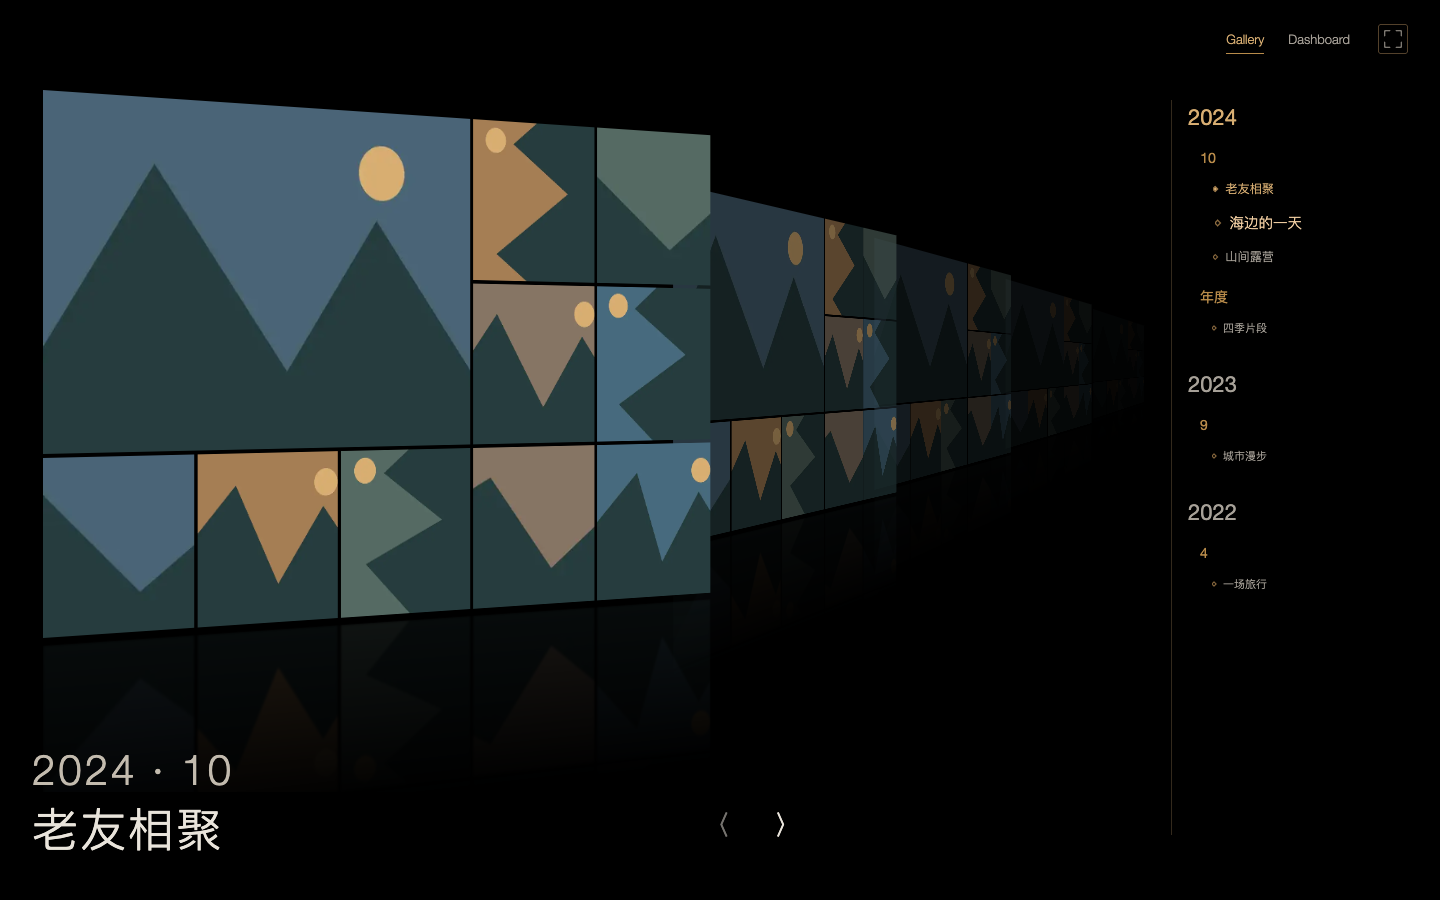
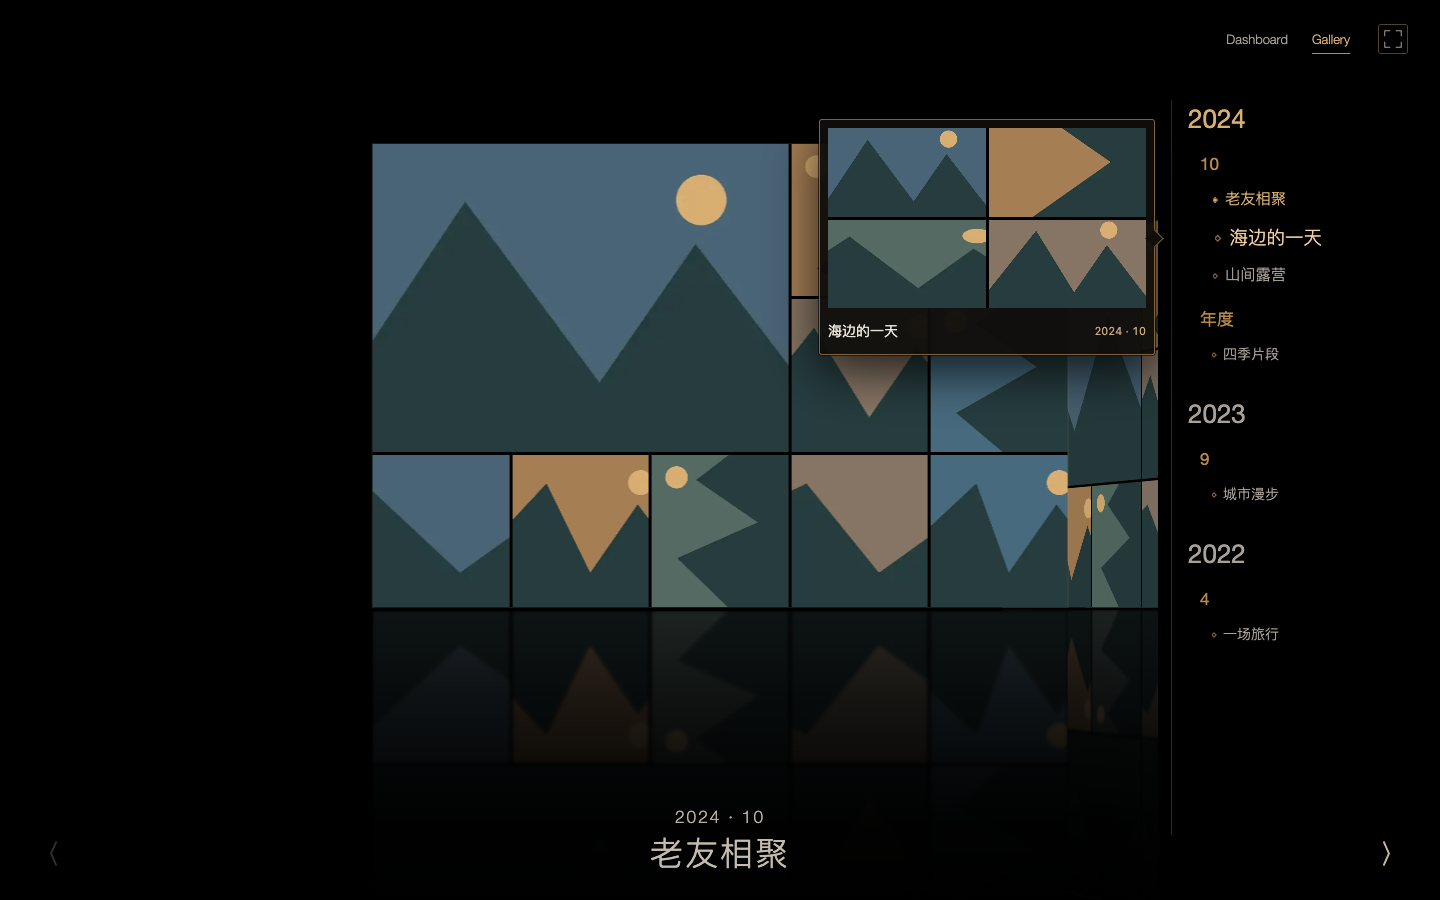
Add score-ranked timeline photo previews and readable labels

diff --git a/web/src/timeline.jsx b/web/src/timeline.jsx
@@ -1,7 +1,31 @@
-import React, { useEffect, useRef } from "react";
+import React, { useEffect, useRef, useState } from "react";
+
+import {createPortal} from "react-dom";
+import {TimelinePreview} from "./timeline-preview";
 
 export function ActivityTimeline({ activities, index, onSelect }) {
   const root = useRef(null), frame = useRef(0), pointer = useRef(null);
+  const [preview,setPreview]=useState(null);
+  const showTimer=useRef(null),closeTimer=useRef(null),removeTimer=useRef(null);
+  const closePreview=()=>{
+    clearTimeout(showTimer.current);clearTimeout(closeTimer.current);clearTimeout(removeTimer.current);
+    setPreview(p=>p ? {...p,closing:true} : null);
+    removeTimer.current=setTimeout(()=>setPreview(null),matchMedia('(prefers-reduced-motion:reduce)').matches ? 0 : 160);
+  };
+  const leavePreview=()=>{
+    clearTimeout(showTimer.current);clearTimeout(closeTimer.current);
+    closeTimer.current=setTimeout(closePreview,70);
+  };
+  const showPreview=(activity,element)=>{
+    clearTimeout(showTimer.current);clearTimeout(closeTimer.current);clearTimeout(removeTimer.current);
+    const switching=preview && preview.activity.id!==activity.id;
+    if(switching)setPreview(p=>p ? {...p,closing:true} : null);
+    showTimer.current=setTimeout(()=>{
+      if(!element.isConnected)return;
+      const r=element.getBoundingClientRect(),rail=root.current.getBoundingClientRect();
+      setPreview({activity,anchor:{x:r.x,y:r.y,width:r.width,height:r.height,railLeft:rail.left},closing:false});
+    },switching ? 160 : 110);
+  };
   const groups = [];
   activities.forEach((activity, i) => {
     const year = activity.event.year || "未知年份";
@@ -17,7 +41,13 @@ export function ActivityTimeline({ activities, index, onSelect }) {
     cancelAnimationFrame(frame.current); frame.current = 0;
     root.current?.querySelectorAll("[data-dock]").forEach((el) => el.style.removeProperty("--dock"));
   };
-  useEffect(() => () => cancelAnimationFrame(frame.current), []);
+  useEffect(()=>()=>{cancelAnimationFrame(frame.current);clearTimeout(showTimer.current);clearTimeout(closeTimer.current);clearTimeout(removeTimer.current);},[]);
+  useEffect(()=>{
+    const dismiss=e=>{if(e.key==='Escape')closePreview();};
+    const resize=()=>closePreview();
+    window.addEventListener('keydown',dismiss);window.addEventListener('resize',resize);
+    return ()=>{window.removeEventListener('keydown',dismiss);window.removeEventListener('resize',resize);};
+  },[]);
   const magnify = (e) => {
     if (e.pointerType === "touch" || !matchMedia("(hover: hover)").matches) return;
     pointer.current = e.clientY;
@@ -35,19 +65,22 @@ export function ActivityTimeline({ activities, index, onSelect }) {
       });
     });
   };
-  return <aside ref={root} className="activity-timeline dock-timeline" aria-label="活动时间线"
-    onPointerMove={magnify} onPointerLeave={reset} onScroll={reset}>
+  return <><aside ref={root} className="activity-timeline dock-timeline" aria-label="活动时间线"
+    onPointerMove={magnify} onPointerLeave={()=>{reset();leavePreview();}} onScroll={()=>{reset();closePreview();}}>
     {groups.map((year) => <section className="timeline-year-group" key={year.year} aria-label={String(year.year)}>
       <h2 data-dock className={"timeline-year " + (activities[index]?.event.year === year.year ? "selected" : "")}><span className="dock-label">{year.year}</span></h2>
       {year.months.map((month) => <section className="timeline-month-group" key={month.month} aria-label={month.month === "年度" ? "年度" : `${month.month}月`}>
         <h3 data-dock className="timeline-month"><span className="dock-label">{month.month}</span></h3>
         <ul>{month.items.map(({activity, i}) => <li data-dock key={activity.id}>
           <button aria-current={i === index ? "true" : undefined} className={i === index ? "selected" : ""}
-            title={activity.event.theme} onClick={() => onSelect(i)}>
+            aria-describedby={preview?.activity.id===activity.id && !preview.closing ? 'timeline-photo-preview' : undefined}
+            onPointerEnter={e=>{if(e.pointerType!=='touch')showPreview(activity,e.currentTarget);}}
+            onPointerLeave={leavePreview} onFocus={e=>showPreview(activity,e.currentTarget)} onBlur={leavePreview}
+            onClick={()=>{closePreview();onSelect(i);}}>
             <span className="dock-label"><span className="timeline-dot"/>{activity.event.theme}</span>
           </button>
         </li>)}</ul>
       </section>)}
     </section>)}
-  </aside>;
+  </aside>{preview && createPortal(<TimelinePreview key={preview.activity.id} activity={preview.activity} anchor={preview.anchor} closing={preview.closing}/>,document.body)}</>;
 }

diff --git a/web/src/gallery.css b/web/src/gallery.css
@@ -880,3 +880,36 @@
  .gallery-view-tunnel .gallery-caption {bottom:22px;max-width:calc(100vw - 140px);}
  .tunnel-controls {inset:auto 14px 22px;}
 }
+
+/* Readable timeline labels and a small photograph drawer outside its scroll clipping. */
+.dock-timeline .timeline-year {font-size:26px;line-height:38px;}
+.dock-timeline .timeline-month {font-size:17px;line-height:32px;}
+.dock-timeline button {font-size:14px;line-height:22px;padding:8px 0;}
+.timeline-preview {--preview-enter-x:16px;--preview-enter-y:0px;position:fixed;z-index:60;box-sizing:border-box;padding:8px;display:grid;grid-template-rows:180px minmax(0,1fr);gap:8px;background:#100e0bf5;border:1px solid #80623d;border-radius:3px;box-shadow:0 16px 48px #000b,0 0 0 1px #0009;backdrop-filter:blur(12px);-webkit-backdrop-filter:blur(12px);pointer-events:none;color:#e9e4db;transform-origin:100% var(--preview-arrow);animation:timeline-preview-in 220ms cubic-bezier(.16,1,.3,1) both;}
+.timeline-preview::after {content:"";position:absolute;right:-7px;top:calc(var(--preview-arrow) - 6px);width:12px;height:12px;background:#100e0b;border-top:1px solid #80623d;border-right:1px solid #80623d;transform:rotate(45deg);}
+.timeline-preview.from-above {--preview-enter-x:0px;--preview-enter-y:12px;transform-origin:var(--preview-arrow) 100%;}
+.timeline-preview.from-above::after {right:auto;left:calc(var(--preview-arrow) - 6px);top:auto;bottom:-7px;border-top:0;border-bottom:1px solid #80623d;}
+.timeline-preview.closing {animation:timeline-preview-out 150ms ease-in both;}
+.timeline-preview-mosaic {min-height:0;position:relative;display:grid;grid-template-columns:3fr 2fr;grid-template-rows:1fr 1fr;gap:3px;background:#000;overflow:hidden;}
+.timeline-preview-cell {min-width:0;min-height:0;overflow:hidden;background:#1c1914;}
+.timeline-preview-cell img {display:block;width:100%;height:100%;object-fit:cover;}
+.timeline-preview-mosaic.layout-3 .preview-cell-0,.timeline-preview-mosaic.layout-5 .preview-cell-0 {grid-row:1/3;}
+.timeline-preview-mosaic.layout-4 {grid-template-columns:1fr 1fr;}
+.timeline-preview-mosaic.layout-5 {grid-template-columns:11fr 4.5fr 4.5fr;}
+.timeline-preview-mosaic.layout-1 {grid-template-columns:1fr;grid-template-rows:1fr;}
+.timeline-preview-mosaic.layout-2 {grid-template-columns:1fr 1fr;grid-template-rows:1fr;}
+.timeline-preview-empty {position:absolute;inset:0;display:grid;place-items:center;color:#b9a88c;font-size:13px;}
+.preview-loading {display:block;height:100%;background:linear-gradient(135deg,#15130f,#262017);}
+.preview-unavailable {display:grid;place-items:center;height:100%;font-size:11px;color:#b9a88c;}
+.timeline-preview-label {display:flex;align-items:center;justify-content:space-between;gap:12px;min-width:0;font:14px/20px system-ui;}
+.timeline-preview-label>span {min-width:0;overflow:hidden;text-overflow:ellipsis;white-space:nowrap;}
+.timeline-preview-label small {flex:none;color:#c8aa7d;font-size:11px;font-variant-numeric:tabular-nums;}
+@keyframes timeline-preview-in {from {opacity:0;transform:translate(var(--preview-enter-x),var(--preview-enter-y)) scale(.94);filter:blur(2px);}to {opacity:1;transform:translateX(0) scale(1);filter:blur(0);}}
+@keyframes timeline-preview-out {from {opacity:1;transform:translateX(0) scale(1);}to {opacity:0;transform:translate(calc(var(--preview-enter-x) * .75),calc(var(--preview-enter-y) * .75)) scale(.96);}}
+@media(max-width:700px){
+ .dock-timeline .timeline-year {font-size:20px;line-height:28px;}
+ .dock-timeline .timeline-month {font-size:15px;line-height:26px;}
+ .dock-timeline button {font-size:13px;line-height:22px;padding:3px 0;min-width:164px;width:164px;}
+ .dock-timeline .timeline-month-group {min-width:164px;}
+}
+@media(prefers-reduced-motion:reduce){.timeline-preview,.timeline-preview.closing {animation:none;}}

diff --git a/web/src/timeline-preview.jsx b/web/src/timeline-preview.jsx
@@ -1,0 +1,44 @@
+import React, {useEffect,useState} from 'react';
+import {planTimelineCollage} from './timeline-collage';
+
+export function TimelinePreview({activity,anchor,closing}) {
+  const width=Math.min(336,innerWidth-24), height=236;
+  const plan=planTimelineCollage(activity.selected,(width-18)/180);
+  const [sources,setSources]=useState({});
+  const [failed,setFailed]=useState({});
+  const key=plan.photos.map(p=>p.id+'|'+p.thumbnail).join(',');
+  useEffect(()=>{
+    const controller=new AbortController(),urls=[];
+    setSources({});setFailed({});
+    plan.photos.forEach(async p=>{
+      try {
+        const response=await fetch(p.thumbnail,{signal:controller.signal});
+        if(!response.ok)throw new Error('preview');
+        const blob=await response.blob();if(controller.signal.aborted)return;
+        const url=URL.createObjectURL(blob);urls.push(url);
+        setSources(s=>({...s,[p.id]:url}));
+      }catch{if(!controller.signal.aborted)setFailed(s=>({...s,[p.id]:true}));}
+    });
+    return ()=>{controller.abort();urls.forEach(url=>URL.revokeObjectURL(url));};
+  },[key]);
+  const clamp=(value,min,max)=>Math.max(min,Math.min(Math.max(min,max),value));
+  const leftward=anchor.railLeft>=width+28;
+  const left=leftward ? anchor.railLeft-width-16 : clamp(anchor.x+anchor.width/2-width/2,12,innerWidth-width-12);
+  const top=leftward ? clamp(anchor.y+anchor.height/2-height/2,78,innerHeight-height-72)
+    : clamp(anchor.y-height-16,78,innerHeight-height-72);
+  const arrow=leftward ? clamp(anchor.y+anchor.height/2-top,18,height-18)
+    : clamp(anchor.x+anchor.width/2-left,18,width-18);
+  return <div id="timeline-photo-preview" role="tooltip" aria-label={`${activity.event.theme} · 评分前${plan.count}张照片`}
+    data-activity={activity.id} data-photo-count={plan.count}
+    className={`timeline-preview ${leftward ? 'from-left' : 'from-above'} ${closing ? 'closing' : ''}`}
+    style={{left,top,width,height,'--preview-arrow':`${arrow}px`}}>
+    <div className={`timeline-preview-mosaic layout-${plan.count}`} aria-busy={plan.photos.some(p=>!sources[p.id]&&!failed[p.id])}>
+      {plan.photos.map((p,i)=><div className={`timeline-preview-cell preview-cell-${i}`} key={p.id} data-score={p.score}>
+        {sources[p.id] && !failed[p.id] ? <img src={sources[p.id]} alt="" decoding="async" onError={()=>setFailed(s=>({...s,[p.id]:true}))}/> :
+          <span className={failed[p.id] ? 'preview-unavailable' : 'preview-loading'}>{failed[p.id] ? '暂不可用' : ''}</span>}
+      </div>)}
+      {!plan.count && <span className="timeline-preview-empty">{activity.unscored ? '评分中' : '暂无精选照片'}</span>}
+    </div>
+    <div className="timeline-preview-label"><span>{activity.event.theme}</span><small>{activity.event.year}{activity.event.month ? ` · ${String(activity.event.month).padStart(2,'0')}` : ''}</small></div>
+  </div>;
+}

diff --git a/web/src/timeline-collage.js b/web/src/timeline-collage.js
@@ -1,0 +1,21 @@
+// Keep score order; vary only the number of leading photos to limit crop loss.
+export function planTimelineCollage(selected, aspect = 318 / 180) {
+  const ranked = selected.filter(p => p.kind === 'image_candidate' && p.thumbnail &&
+    !p.info?.placeholder && typeof p.score === 'number' && Number.isFinite(p.score))
+    .sort((a,b) => b.score-a.score).slice(0,5);
+  if (ranked.length < 3) return {photos:ranked, count:ranked.length};
+  const slots = {
+    3:[aspect*.6,aspect*.8,aspect*.8],
+    4:Array(4).fill(aspect),
+    5:[aspect*.55,...Array(4).fill(aspect*.45)],
+  };
+  let count=3, best=Infinity;
+  for(let n=3;n<=ranked.length;n++) {
+    const loss=ranked.slice(0,n).reduce((sum,p,i)=>{
+      const ratio=p.info?.width>0 && p.info?.height>0 ? p.info.width/p.info.height : 1.5;
+      return sum + 1-Math.min(ratio/slots[n][i],slots[n][i]/ratio);
+    },0)/n + (5-n)*.02;
+    if(loss<best){best=loss;count=n;}
+  }
+  return {photos:ranked.slice(0,count),count};
+}

diff --git a/docs/research/timeline-preview-validation.md b/docs/research/timeline-preview-validation.md
@@ -1,0 +1,24 @@
+# Timeline 照片气泡与字号验收
+
+2026-10-25。Gallery时间线活动项停留110ms后弹出照片预览；切换活动时旧气泡150ms收起，新气泡160ms后进入，220ms缓动展开。鼠标离开后70ms开始收起，滚动、Esc、点击选择活动及窗口缩放关闭预览。
+
+## 选片与展示
+
+- 复用`/api/gallery`已有严格评分Top10：只取有效评分的成片，降序排列后从前3、4、5张中选择平均裁切损失较低的拼贴。不会为了拼贴跳过高分照片。仅1–2张时展示真实数量，未评分显示状态，不补造照片。
+- 三图是左大右双图，四图为2×2，五图为左主图＋右四图。桌面气泡统一336×236px，照片区318×180px。黑色毛玻璃、黄褐细边、右侧尖角与Cover Flow一致；保留主题和年月标签，移除重复的浏览器原生title提示。
+- 通过Portal挂到body，避免timeline滚动裁切；始终对齐稳定按钮命中区，而非Dock放大后的文字。上下边缘自动避让，窄屏空间不足时改在时间线上方，宽度最多视口减24px。
+- 只加载本地640px缩略图，不取4K或NAS原图；仅气泡出现后发请求。切换/关闭取消未完成请求、撤销Blob URL。失败项显示简短状态，不影响时间线选活动。
+- 键盘focus与鼠标hover均可预览，Esc收起；减少动态效果时关闭弹出/收起动画。触摸点击保留直接选择活动。气泡不接管鼠标点击，点击活动的既有行为继续可用。
+
+## 字号
+
+桌面年份/月/活动由22/14/11px增加到26/17/14px，活动行高22px；Dock邻近放大继续应用。手机对应20/15/13px，横向月份组加宽至164px，组内滚动保留。
+
+## 验证
+
+- 构建通过。拼贴逻辑Node测试3项通过，覆盖3/4/5选择、严格评分顺序、零分、未评分/视频/占位排除、少量照片。
+- `node web/tests/timeline-preview.mjs`：13项浏览器检查通过、0未捕获错误，见[机器证据](timeline-preview-evidence.json)。验证统一尺寸、3种真实CSS布局铺满、向左锚定、快速换项无旧图、关闭Blob释放、键盘/Esc/滚动、减少动态效果、手机屏内避让、零原图请求。
+- `node web/tests/timeline.mjs`：原有Dock与三级时间线6项回归通过。
+- CUA在localhost合成图库检查了键盘预览及整体风格。公开截图均为合成图；拼贴形状测试注入明确的合成比例元数据，不代表真实相机EXIF。正式服务使用127.0.0.1，手动fixture使用localhost隔离登录Cookie。
+
+[桌面效果](../design/previews/timeline-preview/desktop.png) · [手机效果](../design/previews/timeline-preview/mobile.png)。本轮不改变后端评分、NAS或缓存策略，未重跑后端全套测试；真实照片的评分质量仍由馆主判断。

diff --git a/docs/design/visual-language.md b/docs/design/visual-language.md
@@ -88,3 +88,7 @@
 以 [B概念图](coverflow-2026-10-25/B-classic-coverflow.png) 为准，中央正面、两侧对称倾斜；按宽度挂载5–20封面。倒影采用不透明黑底遮挡后方，图片亮度0.34并渐变入黑，保留轻微毛玻璃。长渐隐延伸到视口底部，镜面照片保持封面比例。封面只用有效评分Top10，左下仍只显示年月和主题；进入墙后主题与照片/非零视频计数横排，中间黄褐竖线分隔，日期放在小一号的上行；展签无底色和背景模糊。展开采用四散退出和中心聚合入场，档案共用时间轴；支持减少动态效果。单图以比例分配图像与档案宽度，点击浏览器内铺满并可原路返回。实现、限制与截图见 [验收](../research/classic-coverflow-validation.md)。
 
 2026-10-25倒影与展签复审：[实现和验证](../research/coverflow-polish-validation.md)。远处封面通过亮度而非透明度后退，不能让照片和倒影互相透色。
+
+## 2026-10-25：时间线照片气泡
+
+活动项停留后在左侧弹出336×236px统一矩形气泡，黑色毛玻璃与黄褐细边，右侧小尖角；评分最高的前3–5张成片按裁切损失选择拼贴数量，不能绕过高分照片。仅载本地缩略图，关闭取消并释放；Portal避免列表裁切，窄屏放上方。弹出220ms、收起150ms，减少动态效果直接显示/关闭。桌面年/月/活动字号26/17/14px，手机20/15/13px；原Dock放大继续作用。见[验证](../research/timeline-preview-validation.md)。
